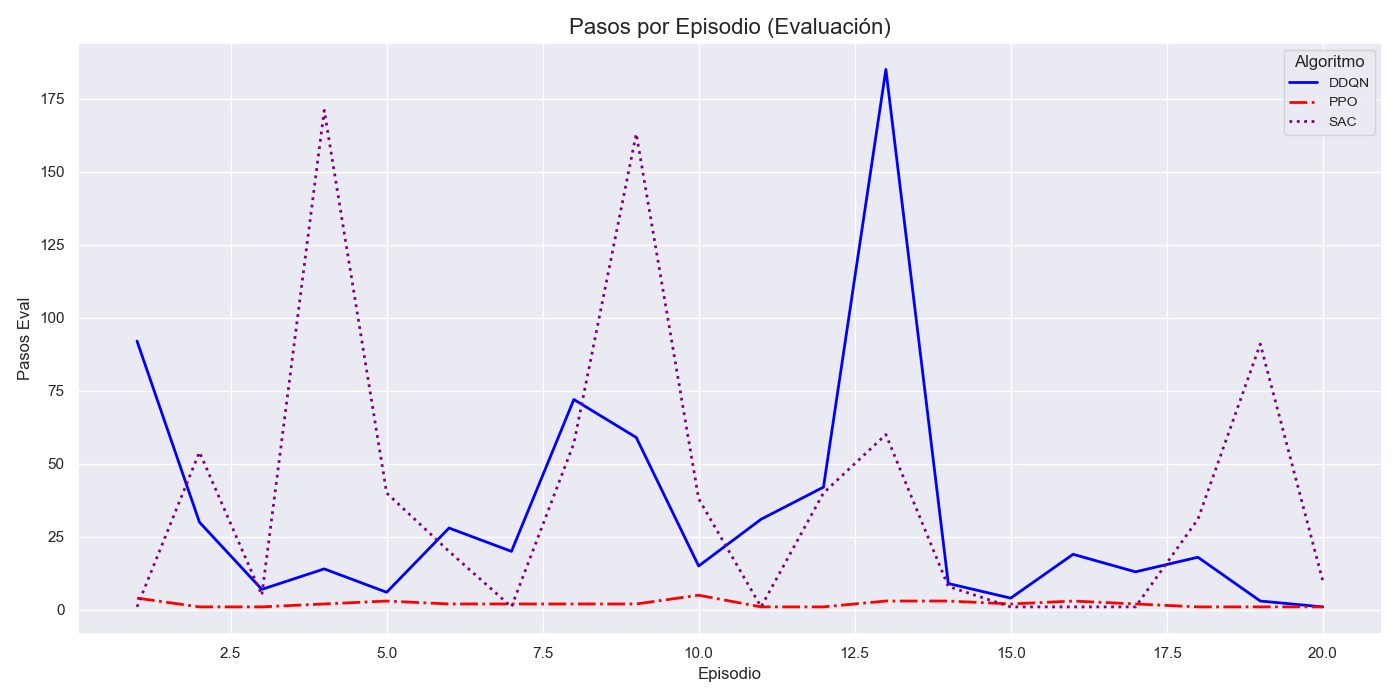
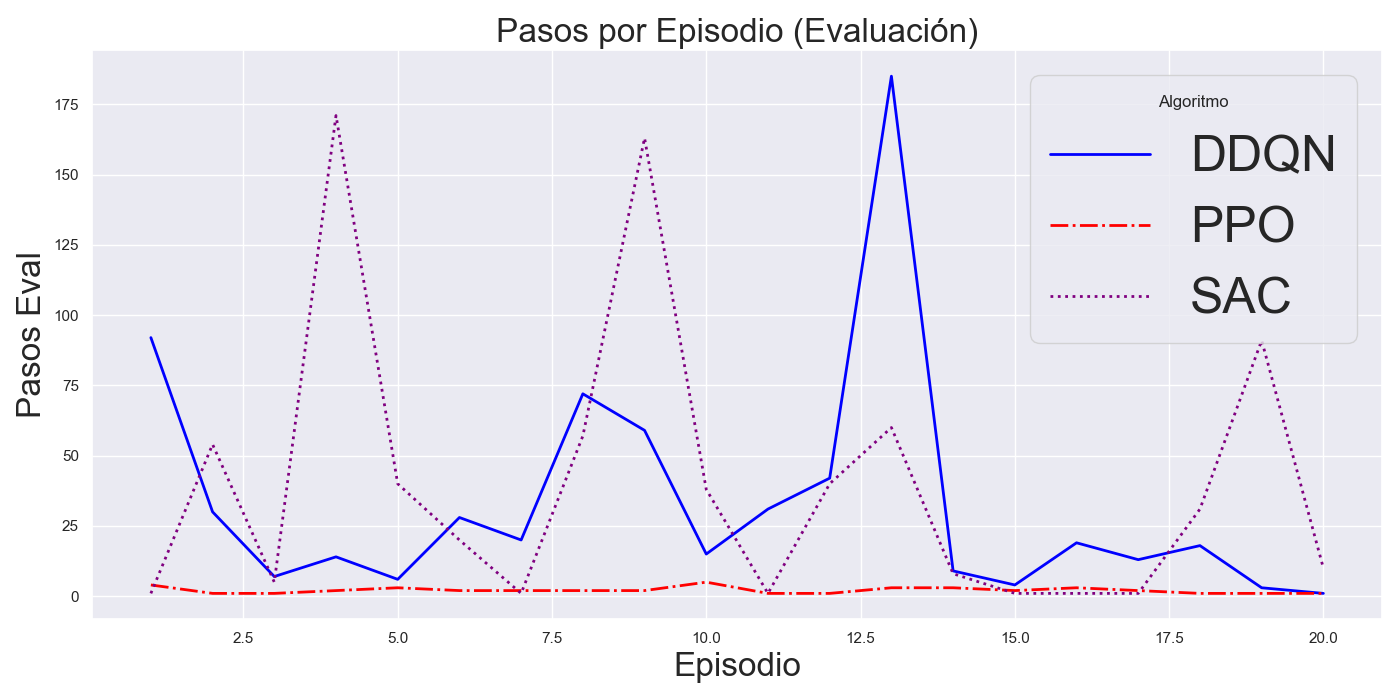
Aumentar tamaño de letra de graficas

diff --git a/plot_results_comparison.py b/plot_results_comparison.py
@@ -104,10 +104,10 @@ def plot_comparison_graphs(
                 print(f"Error cargando o ploteando datos de {csv_path} para {alg_name.upper()}: {e}")
 
         if any_data_plotted:
-            plt.title(plot_title, fontsize=16)
-            plt.xlabel("Episodio", fontsize=12)
-            plt.ylabel(metric_col_name.replace("_", " ").title(), fontsize=12)
-            plt.legend(title="Algoritmo", fontsize=10)
+            plt.title(plot_title, fontsize=24)
+            plt.xlabel("Episodio", fontsize=24)
+            plt.ylabel(metric_col_name.replace("_", " ").title(), fontsize=24)
+            plt.legend(title="Algoritmo", fontsize=36)
             plt.tight_layout()
             plot_filename_safe = plot_title.lower().replace(" ", "_").replace("(", "").replace(")", "")
             save_path = os.path.join(output_dir, f"comparison_{mode}_{plot_filename_safe}.png")
